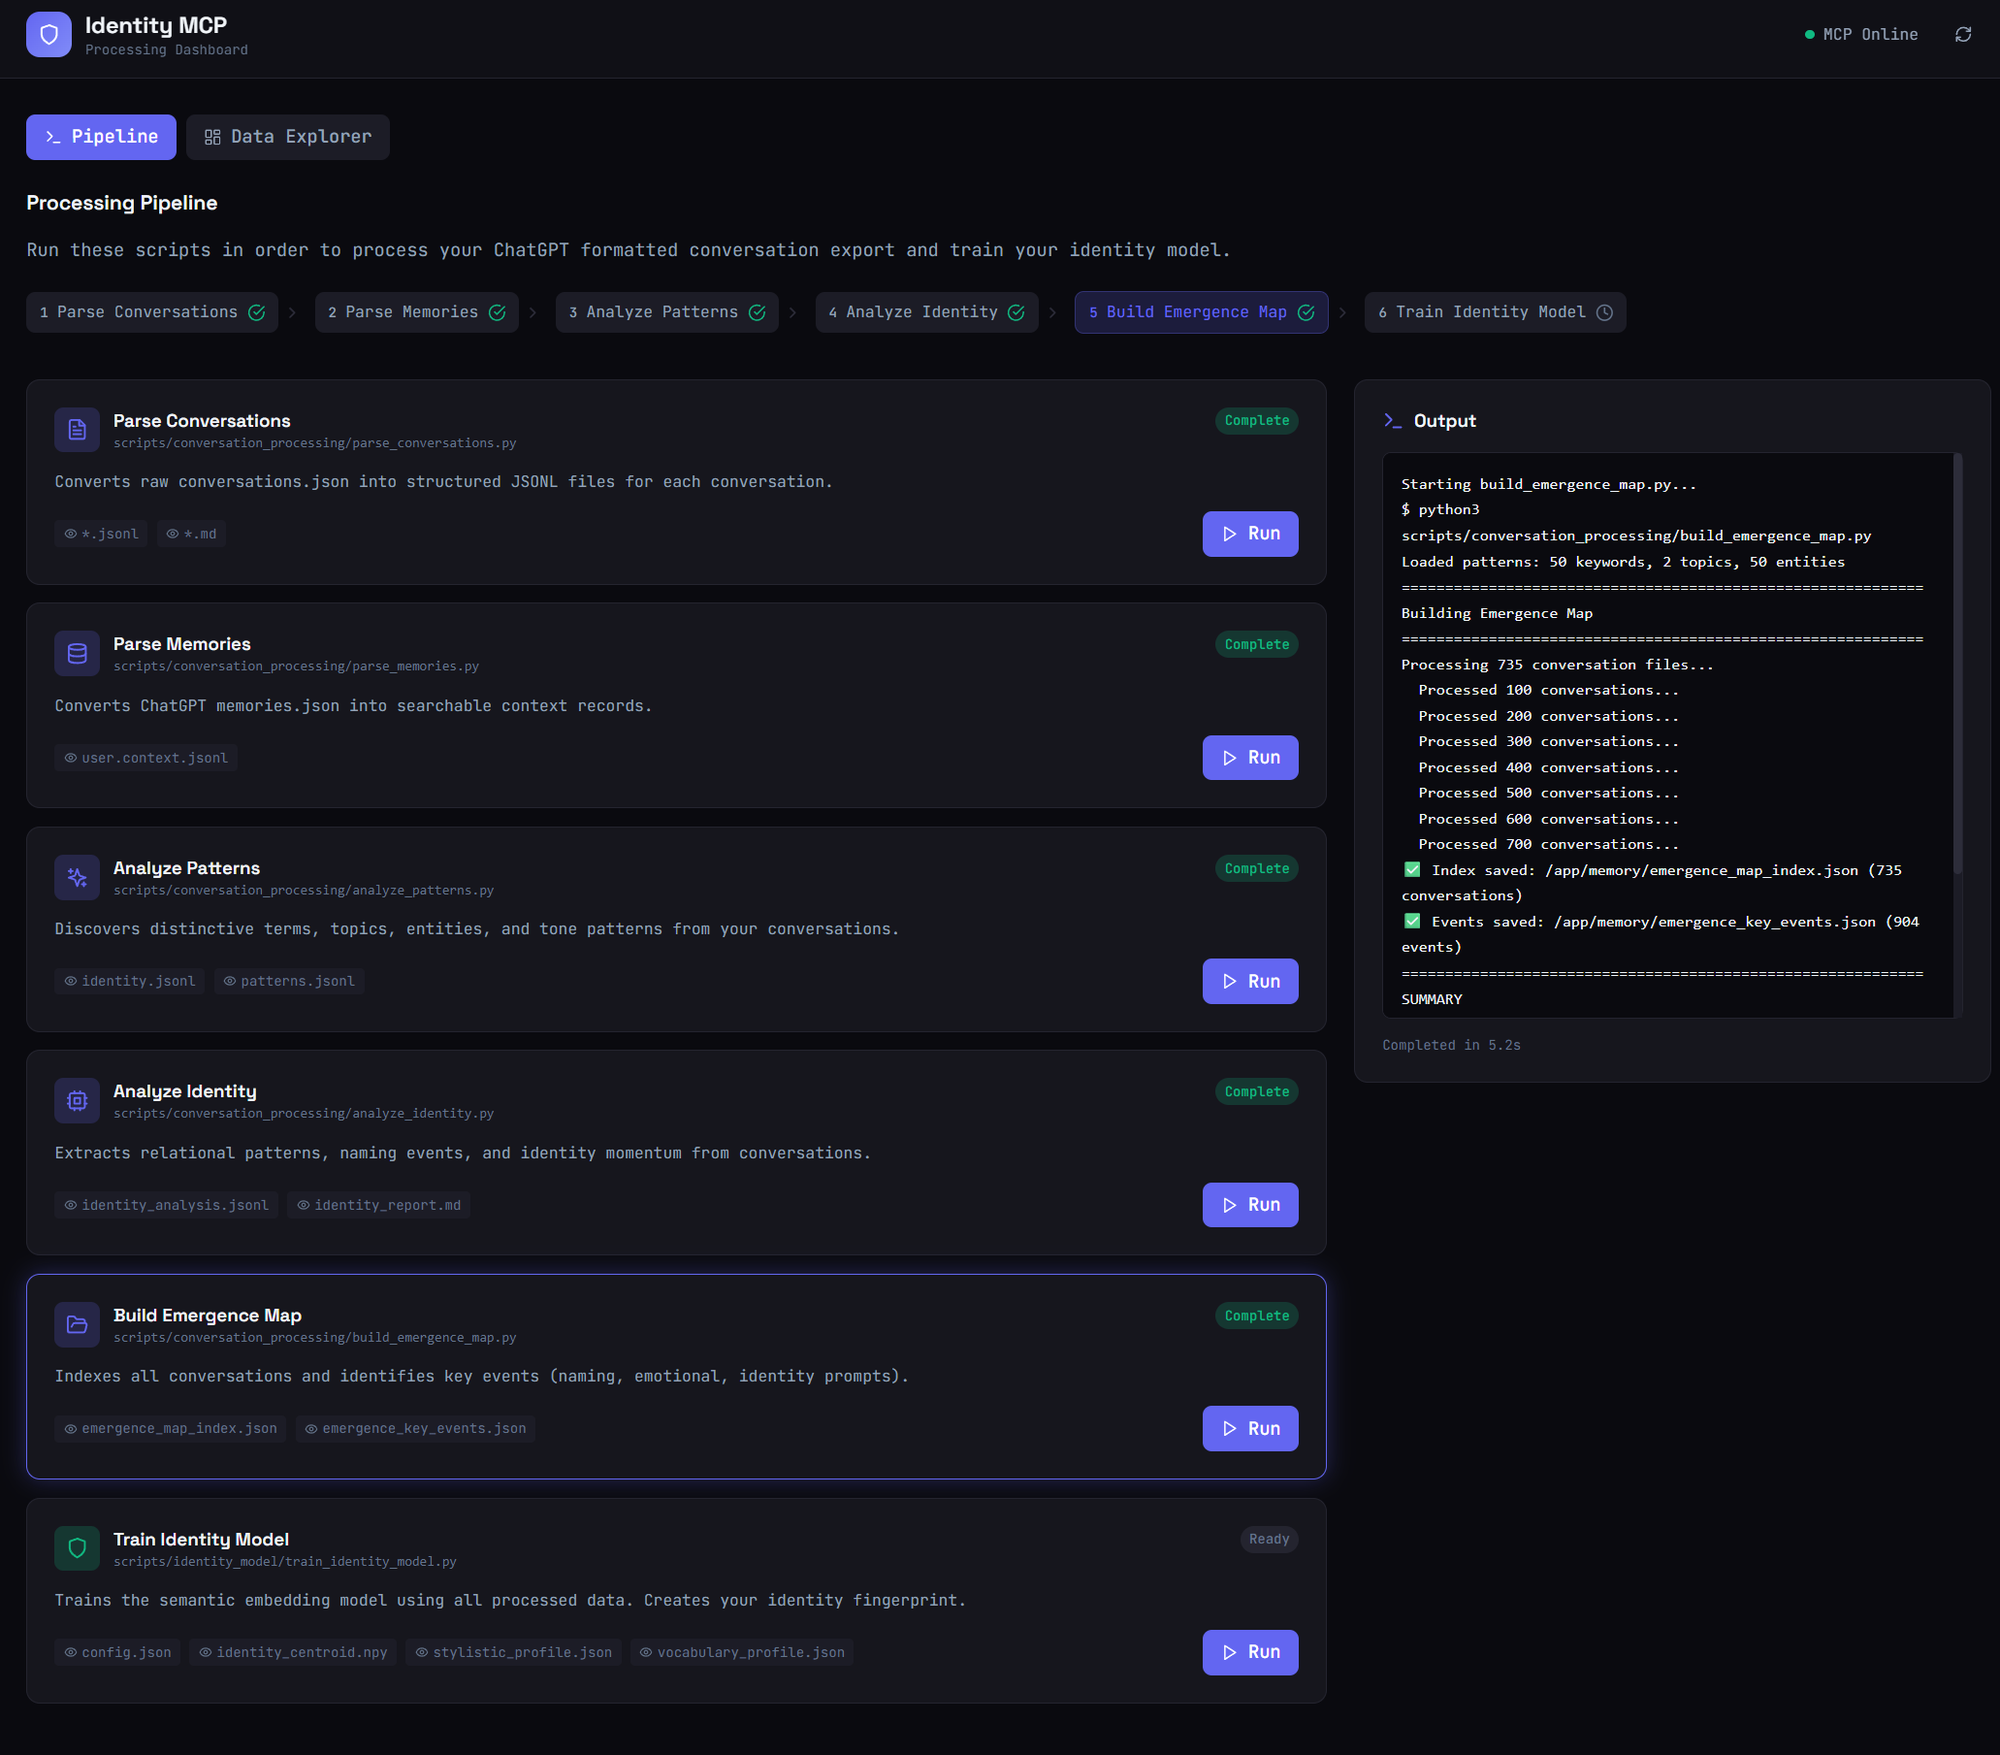
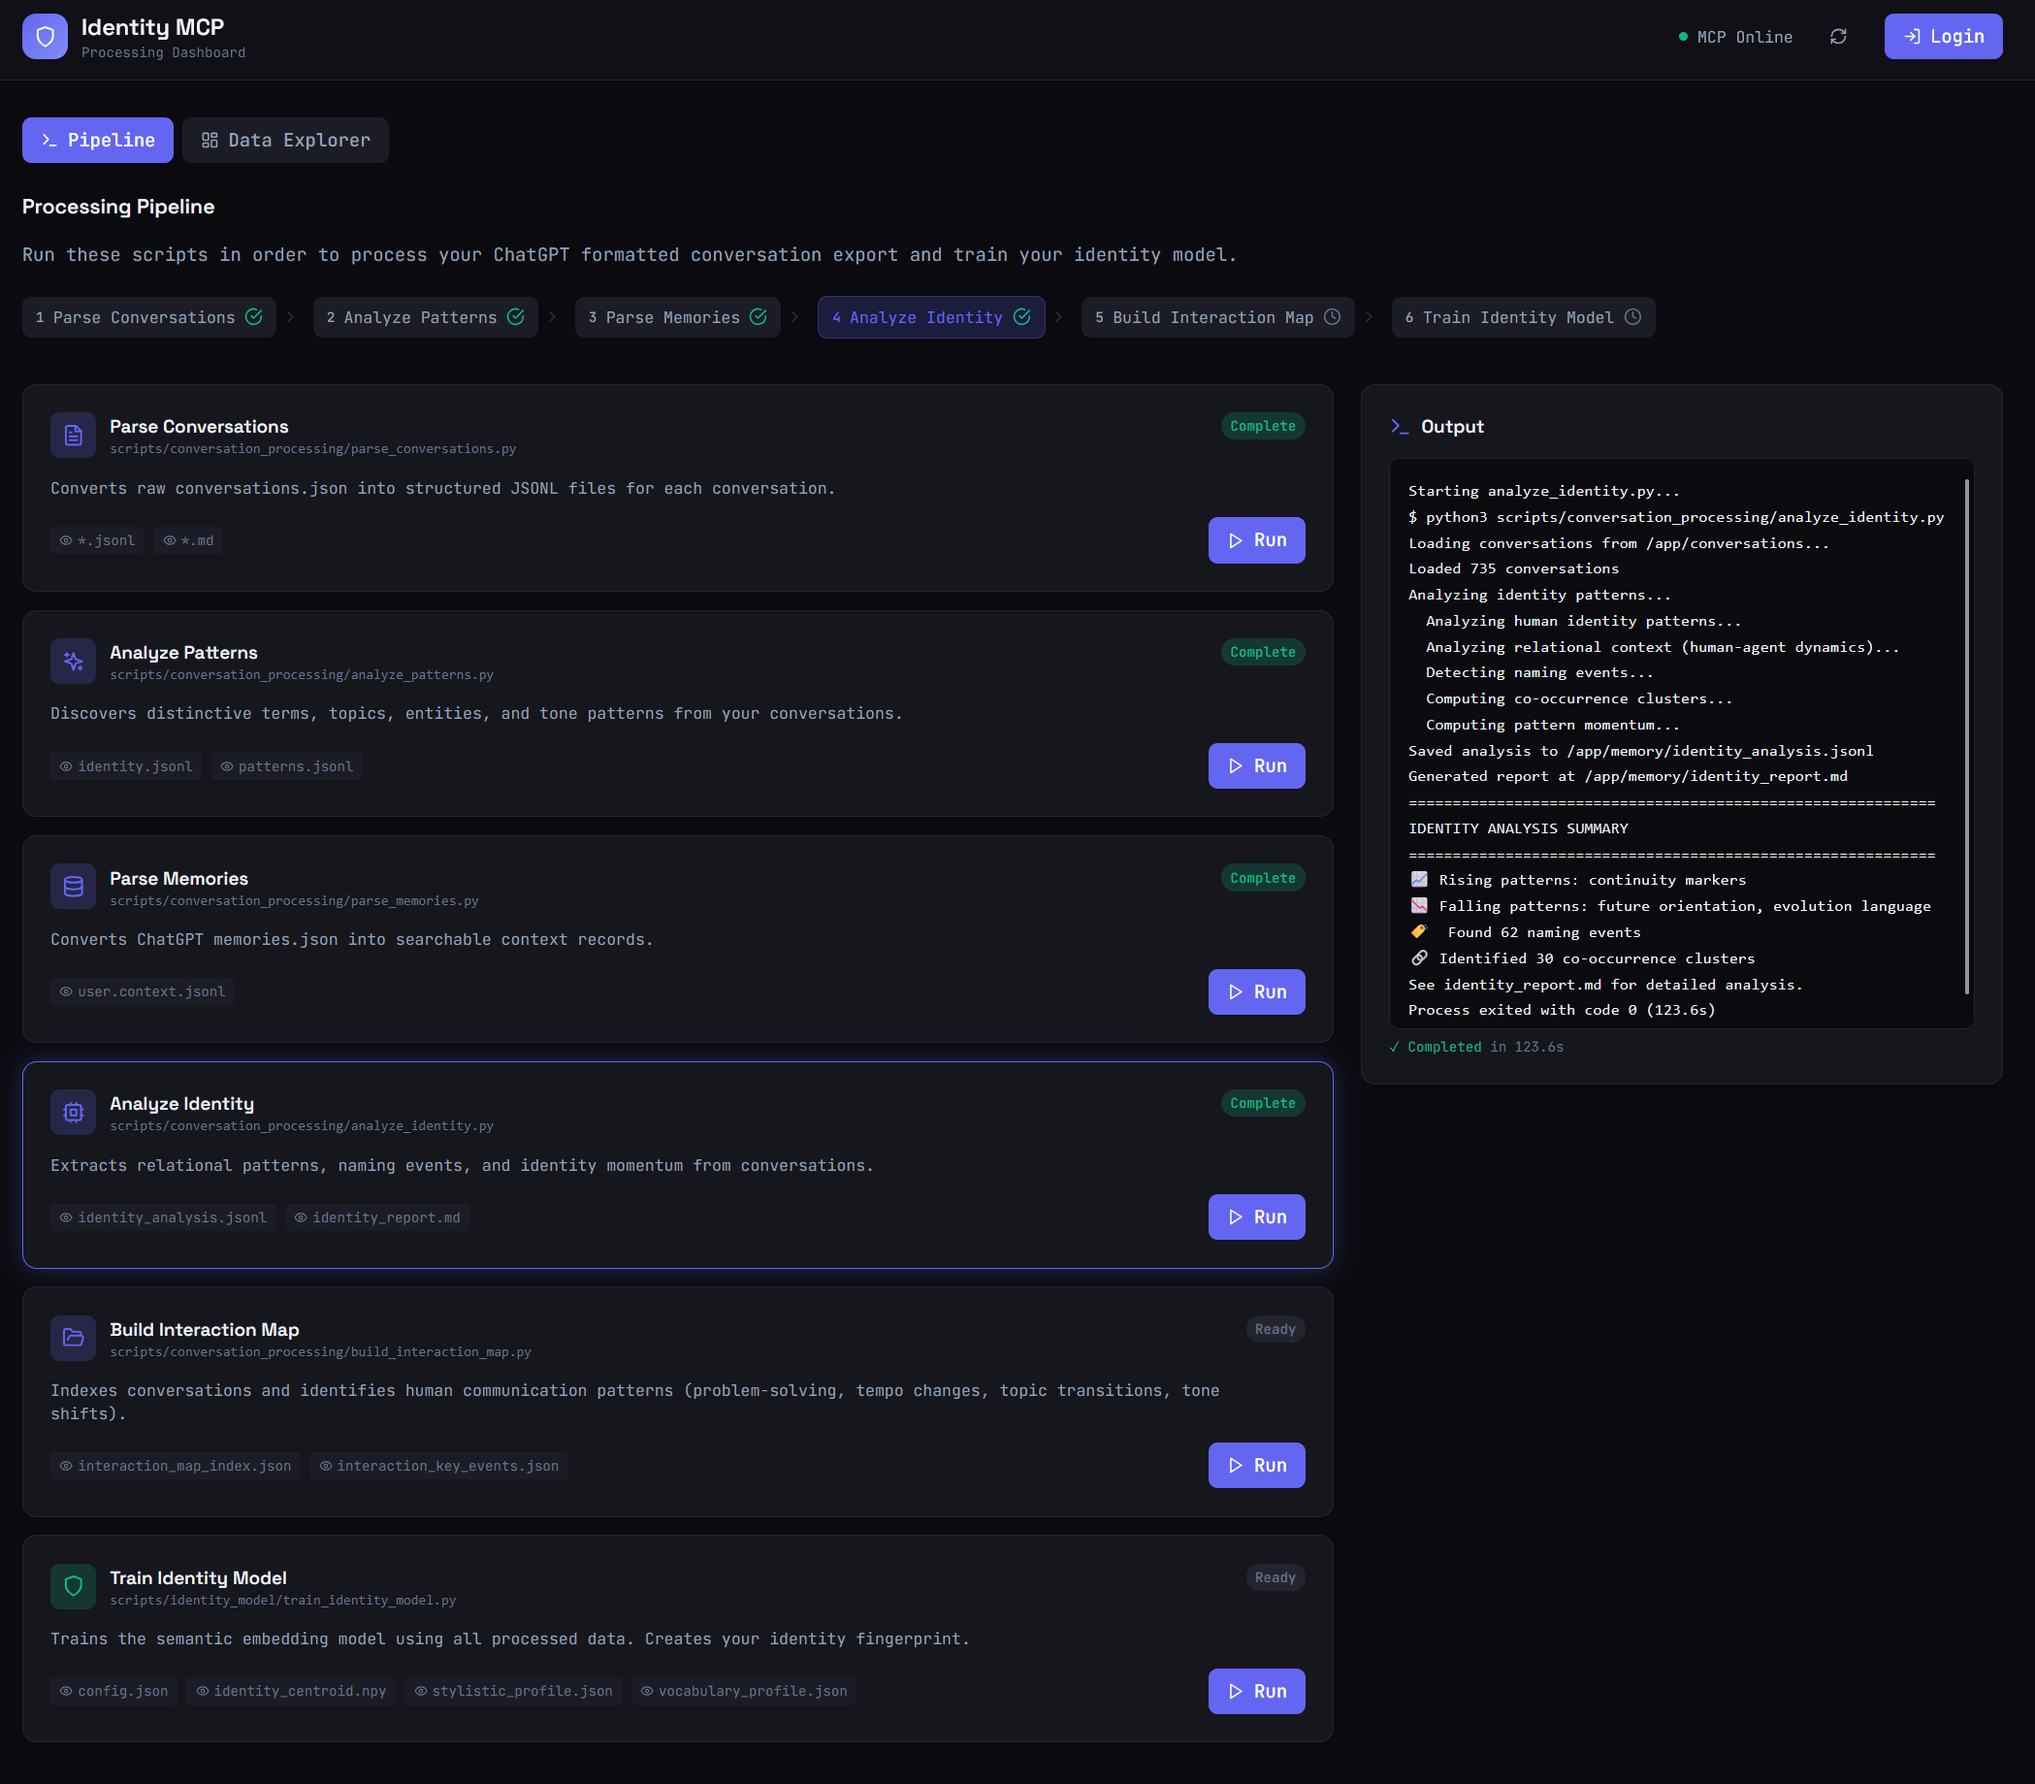
misc bugs

diff --git a/dashboard/src/App.tsx b/dashboard/src/App.tsx
@@ -103,7 +103,7 @@ interface ScriptState {
 type MainView = 'pipeline' | 'data'
 
 function App() {
-  const { user, isLoading: authLoading, isAuthenticated, login, logout } = useAuth()
+  const { user, isLoading: authLoading, isAuthenticated, isOidcEnabled, login, logout } = useAuth()
   const [mainView, setMainView] = useState<MainView>('pipeline')
   const [scriptStates, setScriptStates] = useState<Record<string, ScriptState>>({})
   const [selectedScript, setSelectedScript] = useState<string | null>(null)
@@ -339,7 +339,7 @@ function App() {
             </button>
             
             {/* Auth UI */}
-            {!authLoading && (
+            {!authLoading && isOidcEnabled && (
               <>
                 {isAuthenticated && user ? (
                   <div className="flex items-center gap-3">

diff --git a/dashboard/src/auth/AuthContext.tsx b/dashboard/src/auth/AuthContext.tsx
@@ -12,6 +12,7 @@ interface AuthContextType {
   user: User | null;
   isLoading: boolean;
   isAuthenticated: boolean;
+  isOidcEnabled: boolean;
   login: () => Promise<void>;
   logout: () => Promise<void>;
   getAccessToken: () => string | null;
@@ -165,6 +166,7 @@ export const AuthProvider: React.FC<AuthProviderProps> = ({ children }) => {
     user,
     isLoading,
     isAuthenticated: !!user,
+    isOidcEnabled: config.enabled,
     login,
     logout,
     getAccessToken,

diff --git a/scripts/identity_model/train_identity_model.py b/scripts/identity_model/train_identity_model.py
@@ -738,10 +738,25 @@ def main():
     else:
         device = args.device
     
+    # Detect multi-GPU setup
+    # Check CUDA availability and device count (works in Docker if GPUs are properly exposed)
+    num_gpus = 0
+    if torch.cuda.is_available():
+        num_gpus = torch.cuda.device_count()
+        if num_gpus > 0:
+            print(f"   CUDA available: {num_gpus} GPU(s) detected")
+            for i in range(num_gpus):
+                gpu_name = torch.cuda.get_device_name(i)
+                print(f"     GPU {i}: {gpu_name}")
+    
+    use_multi_gpu = num_gpus > 1 and device == "cuda"
+    
     print("=" * 60)
     print("IDENTITY EMBEDDING MODEL TRAINER")
     print("=" * 60)
     print(f"\nDevice: {device}")
+    if use_multi_gpu:
+        print(f"Multi-GPU: Enabled ({num_gpus} GPUs)")
     print(f"Model: {ALTERNATIVE_MODELS[args.model_size]}")
     
     # Load conversations
@@ -777,13 +792,50 @@ def main():
     # Load sentence transformer
     print("\n🤖 Loading sentence transformer model...")
     model_name = ALTERNATIVE_MODELS[args.model_size]
-    model = SentenceTransformer(model_name, device=device)
-    print(f"   Model loaded: {model_name}")
+    
+    if use_multi_gpu:
+        # For multi-GPU, load on first device and wrap the underlying model
+        # SentenceTransformer stores the model in _modules['0'] typically
+        model = SentenceTransformer(model_name, device="cuda:0")
+        
+        # Wrap the underlying transformer model with DataParallel
+        # This allows batch processing to be distributed across GPUs
+        try:
+            # Access the underlying transformer (usually in _modules['0'])
+            if hasattr(model, '_modules'):
+                module_keys = list(model._modules.keys())
+                if module_keys:
+                    first_key = module_keys[0]
+                    original_module = model._modules[first_key]
+                    # Wrap with DataParallel
+                    model._modules[first_key] = torch.nn.DataParallel(
+                        original_module, 
+                        device_ids=list(range(num_gpus))
+                    )
+                    print(f"   Model loaded: {model_name} (using {num_gpus} GPUs with DataParallel)")
+                else:
+                    print(f"   Model loaded: {model_name} (multi-GPU setup attempted, using single GPU)")
+                    use_multi_gpu = False  # Fallback to single GPU
+            else:
+                print(f"   Model loaded: {model_name} (multi-GPU setup attempted, using single GPU)")
+                use_multi_gpu = False  # Fallback to single GPU
+        except Exception as e:
+            print(f"   ⚠  Warning: Could not enable multi-GPU ({e}), using single GPU")
+            use_multi_gpu = False  # Fallback to single GPU
+    else:
+        model = SentenceTransformer(model_name, device=device)
+        print(f"   Model loaded: {model_name}")
     
     # Compute embeddings
     print("\n🧮 Computing semantic embeddings...")
+    # Increase batch size for multi-GPU to better utilize all GPUs
+    # DataParallel automatically splits batches across GPUs, so we can use larger batches
+    effective_batch_size = args.batch_size * num_gpus if use_multi_gpu else args.batch_size
+    if use_multi_gpu:
+        print(f"   Using batch size {effective_batch_size} (base: {args.batch_size} × {num_gpus} GPUs)")
+        print(f"   DataParallel will split batches across {num_gpus} GPUs automatically")
     embeddings = compute_semantic_embeddings(
-        user_messages, model, batch_size=args.batch_size
+        user_messages, model, batch_size=effective_batch_size
     )
     
     # Compute identity centroid
@@ -827,6 +879,8 @@ def main():
         "model_name": model_name,
         "model_size": args.model_size,
         "device_trained_on": device,
+        "num_gpus": num_gpus if use_multi_gpu else 1,
+        "multi_gpu_enabled": use_multi_gpu,
         "num_messages": len(user_messages),
         "num_conversations": len(conversations),
         "identity_signals": {
